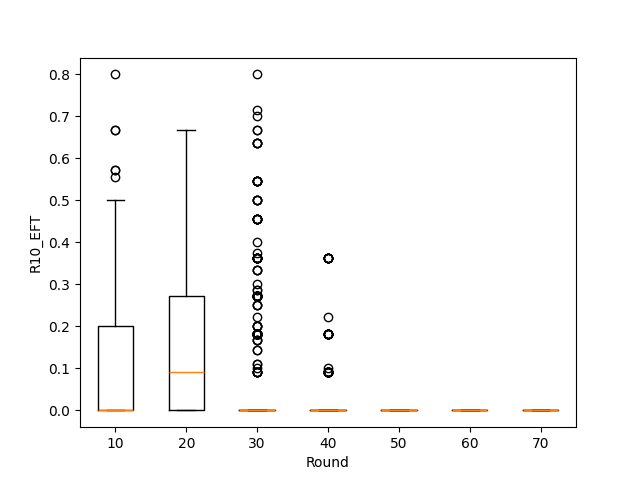
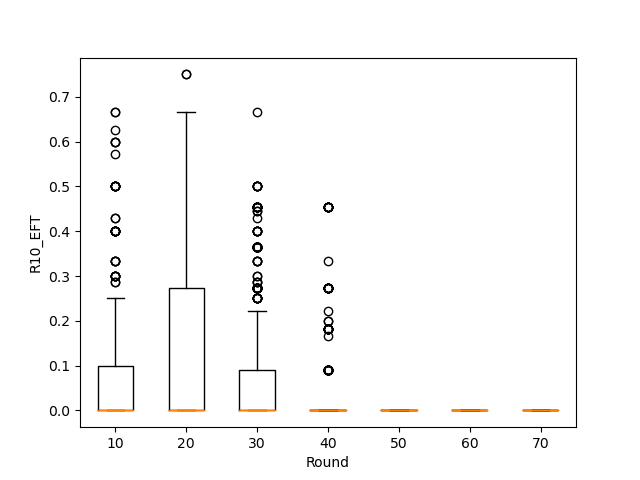
add Threshold setting

diff --git a/Models/recourseGradient.py b/Models/recourseGradient.py
@@ -26,12 +26,13 @@ class Recourse(nn.Module):
 
 
 # def recourse(c_model: nn.Module, dataset: Dataset, max_epochs: int, weight: pt.Tensor | None = None, loss_list: list | None = None):
-def recourse(c_model: nn.Module, dataset: Dataset, max_epochs: int, weight: pt.Tensor = None, loss_list: list = None):
+def recourse(c_model: nn.Module, dataset: Dataset, max_epochs: int, weight: pt.Tensor = None, loss_list: list = None,threshold = 1.0):
     loss: pt.Tensor
     r_model = Recourse(dataset.x.shape)
     criterion = nn.HuberLoss()
     optimizer = optim.Adam(r_model.parameters(), 0.1)
     # scheduler = optim.lr_scheduler.ReduceLROnPlateau(optimizer)
+    threshold = pt.ones(dataset.y.size())
 
     r_model.train()
     for _ in range(max_epochs):
@@ -39,7 +40,8 @@ def recourse(c_model: nn.Module, dataset: Dataset, max_epochs: int, weight: pt.T
         x_hat,cost = r_model(dataset.x)
         y_hat = c_model(x_hat)
         #lamda = 0.5
-        loss = criterion(y_hat, dataset.y) + 0.3 * pt.pow(pt.sum((cost * weight) * (cost * weight)),1/2)
+        # loss = criterion(y_hat, dataset.y) + 0.3 * pt.pow(pt.sum((cost * weight) * (cost * weight)),1/2)
+        loss = criterion(y_hat, threshold) + 0.3 * pt.pow(pt.sum((cost * weight) * (cost * weight)),1/2)
         loss.backward()
         optimizer.step()
         # optimizer.zero_grad()

diff --git a/Models/recourseOriginal.py b/Models/recourseOriginal.py
@@ -22,11 +22,12 @@ class Recourse(nn.Module):
 
 
 # def recourse(c_model: nn.Module, dataset: Dataset, max_epochs: int, weight: pt.Tensor | None = None, loss_list: list | None = None):
-def recourse(c_model: nn.Module, dataset: Dataset, max_epochs: int, weight: pt.Tensor = None, loss_list: list = None):
+def recourse(c_model: nn.Module, dataset: Dataset, max_epochs: int, weight: pt.Tensor = None, loss_list: list = None,threshold = 1.0):
     loss: pt.Tensor
     r_model = Recourse(dataset.x.shape)
     criterion = nn.HuberLoss()
     optimizer = optim.Adam(r_model.parameters(), 0.1)
+    threshold = pt.ones(dataset.y.size())
     # scheduler = optim.lr_scheduler.ReduceLROnPlateau(optimizer)
 
     r_model.train()
@@ -34,7 +35,8 @@ def recourse(c_model: nn.Module, dataset: Dataset, max_epochs: int, weight: pt.T
         optimizer.zero_grad()
         x_hat = r_model(dataset.x, weight)
         y_hat = c_model(x_hat)
-        loss = criterion(y_hat, dataset.y)
+        # loss = criterion(y_hat, dataset.y)
+        loss = criterion(y_hat, threshold)
         loss.backward()
         optimizer.step()
         # optimizer.zero_grad()

diff --git a/Experiments/preserveOriginalLabel_binomial.py b/Experiments/preserveOriginalLabel_binomial.py
@@ -73,7 +73,9 @@ class Example1(Helper):
 
         # recourse(model, sub_sample, 10,weight,loss_list=[])
         if len(sub_sample) > 0:
-            recourse(model, sub_sample, 10)
+            # print("sub_sample: ",sub_sample.y)
+            # print("sub_sample.y size: ",sub_sample.y.size())
+            recourse(model, sub_sample, 10,threshold=0.5)
             test = deepcopy(x)
 
             #change the attributes that performed recourse
